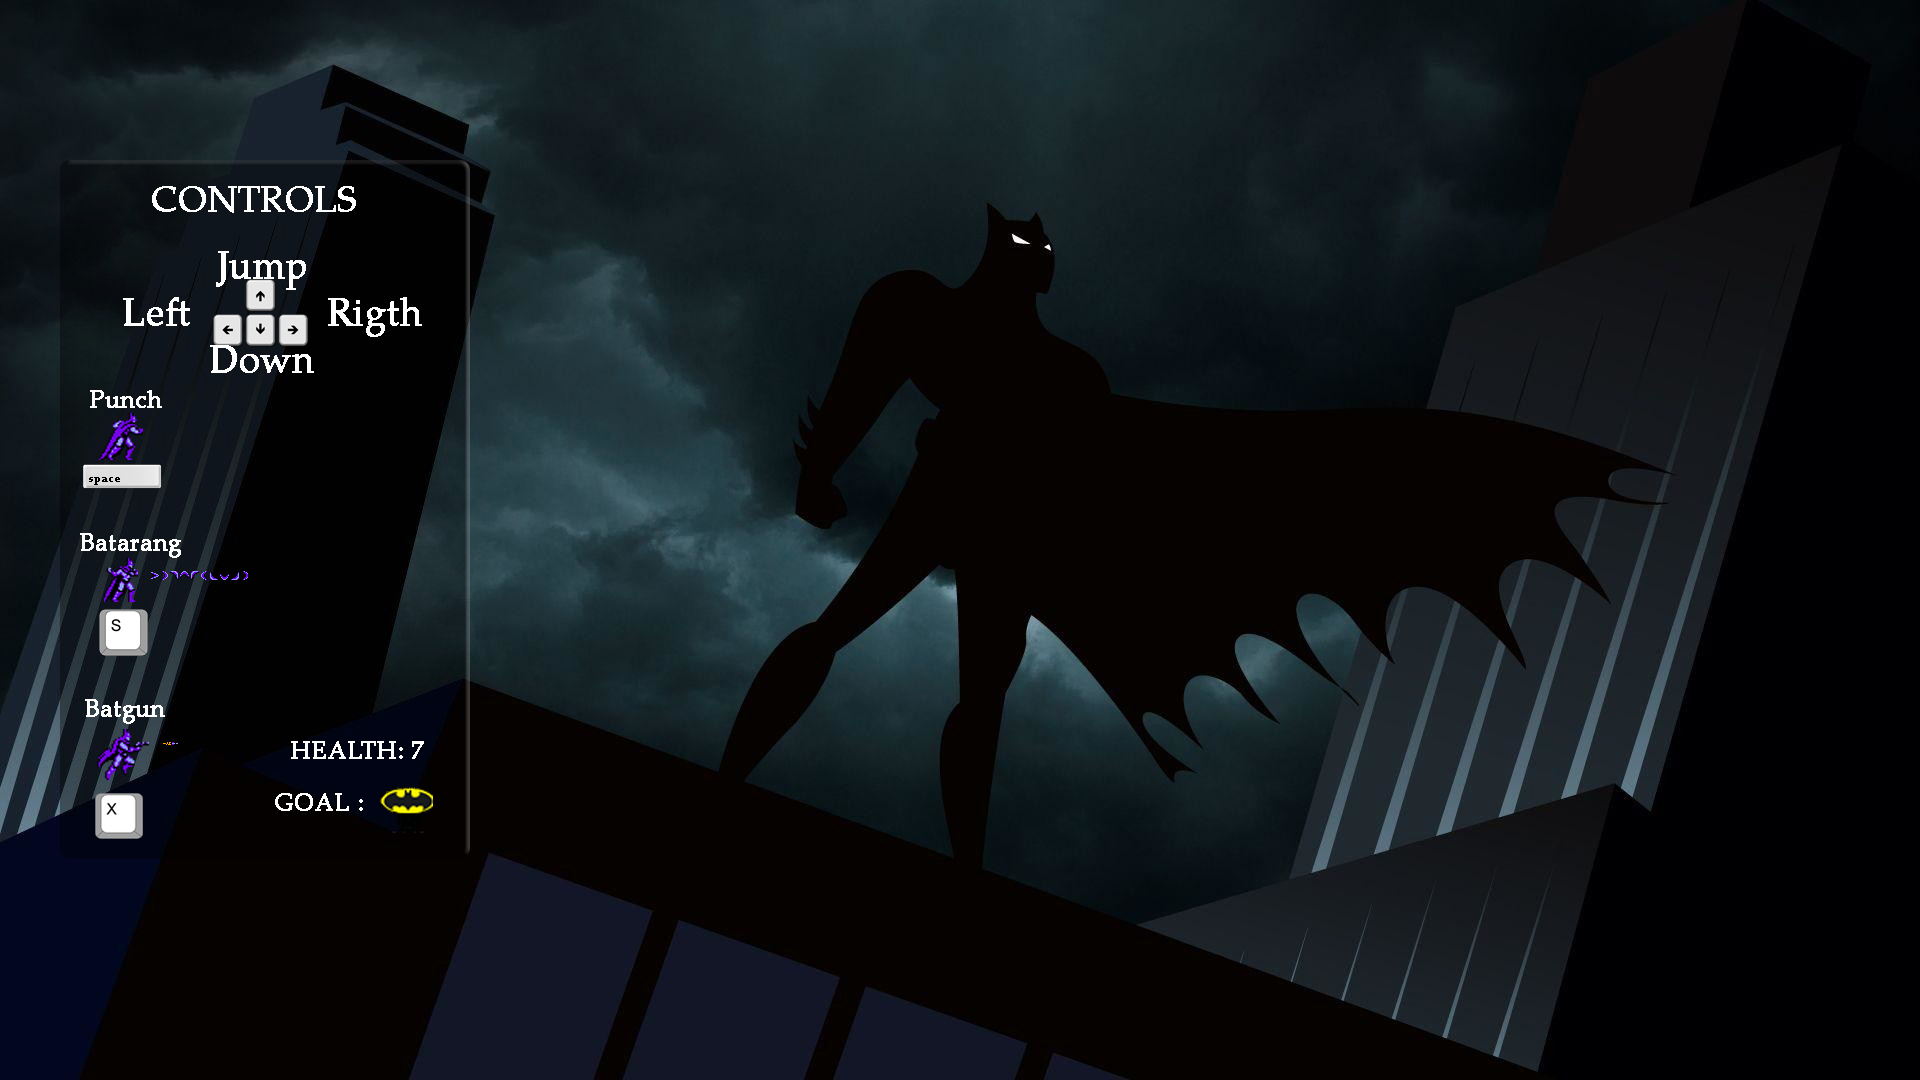
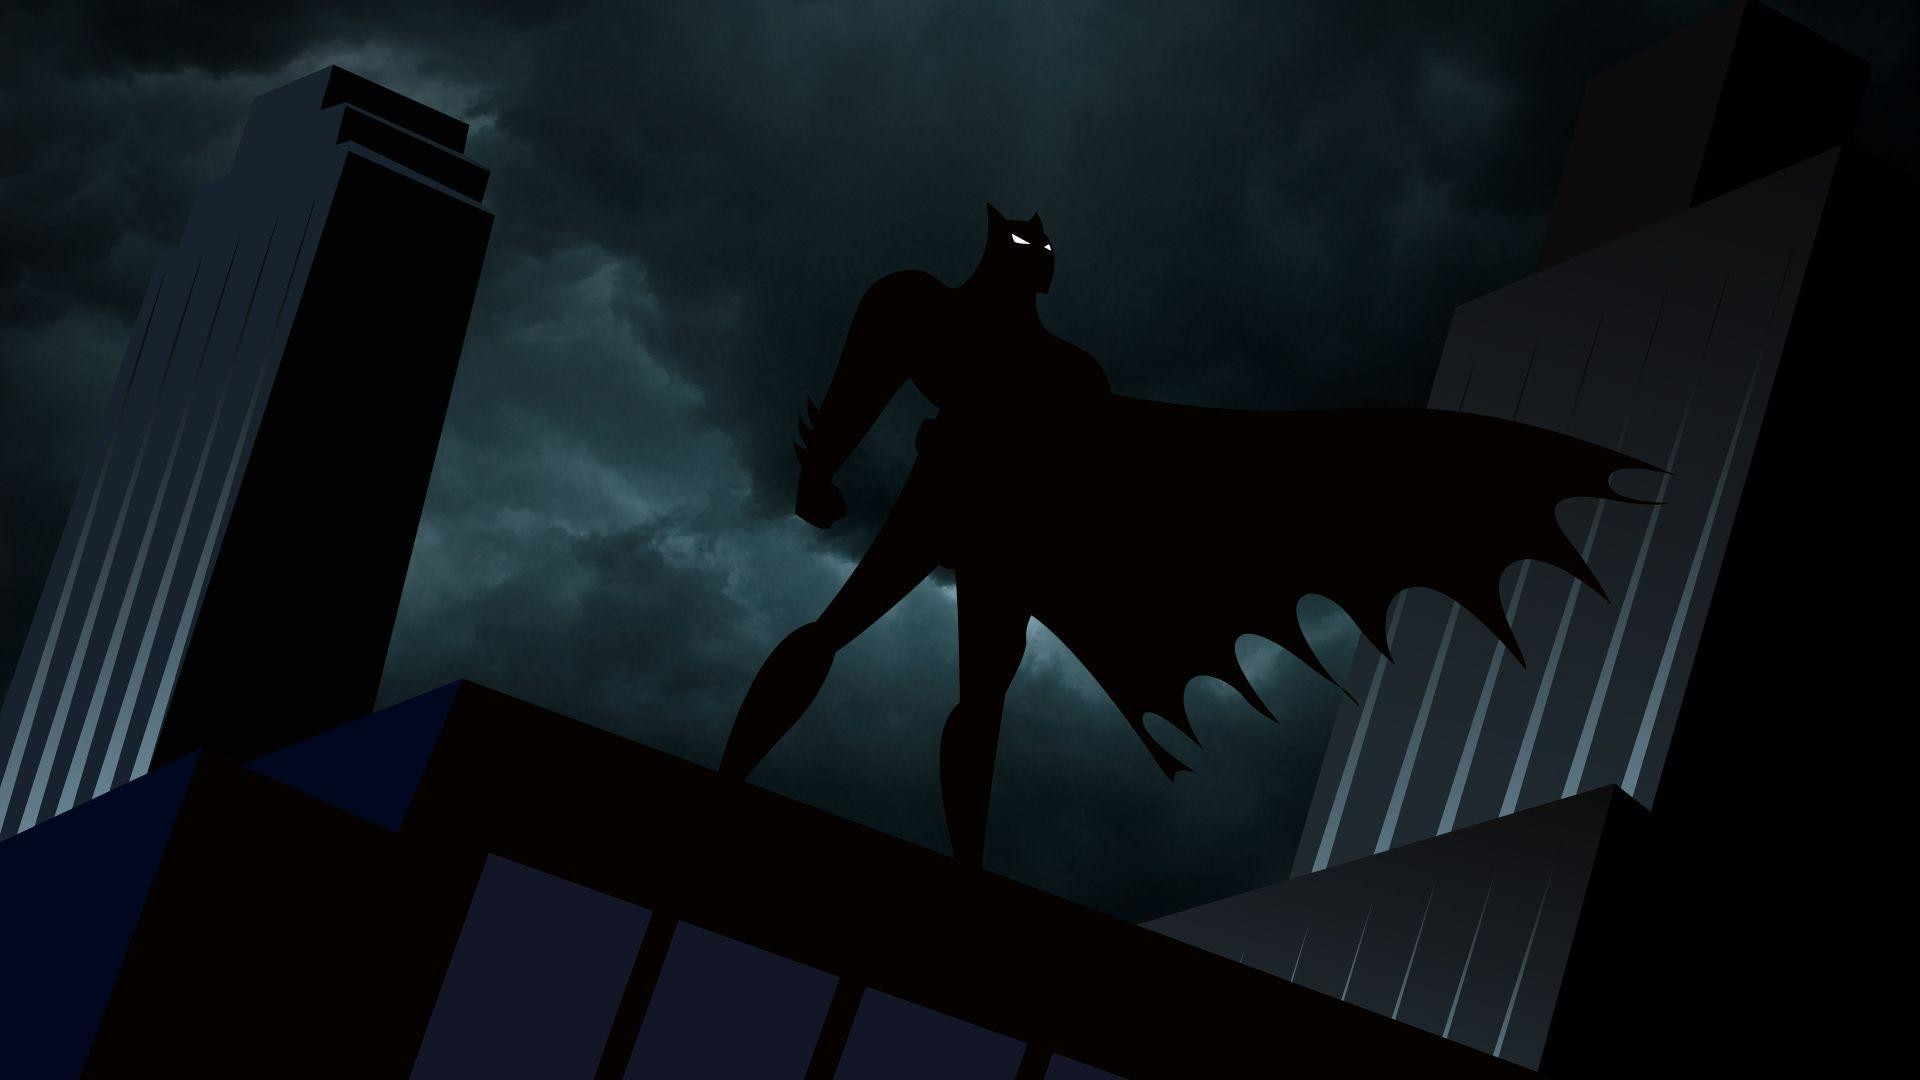
Final commit?

diff --git a/scenes/endLevel3.html b/scenes/endLevel3.html
@@ -13,9 +13,9 @@
 <div style="text-align:center"> 
  
   <video width="544" height="544" autoplay>
-    <source src="http://localhost/DVI/Batman/scenes/initLevel.mp4" type="video/mp4"/>
-    <source src="http://localhost/DVI/Batman/scenes/initLevel.webm" type="video/webm"/>
-    <source src="http://localhost/DVI/Batman/scenes/initLevel.ogv" type="video/ogg"/>
+    <source src="http://localhost/DVI/Batman/scenes/endLevel3.mp4" type="video/mp4"/>
+    <source src="http://localhost/DVI/Batman/scenes/endLevel3.webm" type="video/webm"/>
+    <source src="http://localhost/DVI/Batman/scenes/endLevel3.ogv" type="video/ogg"/>
   </video>
 </div> 
 

diff --git a/game.js b/game.js
@@ -1023,8 +1023,8 @@ window.addEventListener("load",function() {
           y: Q.height/2
       }));
       
-      var button = stage.insert(new Q.UI.Button({ x: Q.width/2 + Q.width/6, y: Q.height/2 - Q.height/20, fill: "#33088F", label: " PUSH ENTER " }))
-      Q.input.on("confirm",function() {
+      var button = stage.insert(new Q.UI.Button({ x: Q.width/2 + Q.width/6, y: Q.height/2 - Q.height/20, fill: "#33088F", label: " CLICK HERE TO START " }))
+      background.on("click",function() {
         Q.clearStages();
         Q.stageScene('level1');
         Q.stageScene('hud', 3, Q('Batman').first().p);

diff --git a/index.html b/index.html
@@ -26,7 +26,7 @@
 <script src='game.js'></script>
 
 </head>
-<body background="images/background.jpg">
+<body background="images/background2.jpg">
 
 </body>
 </html>
